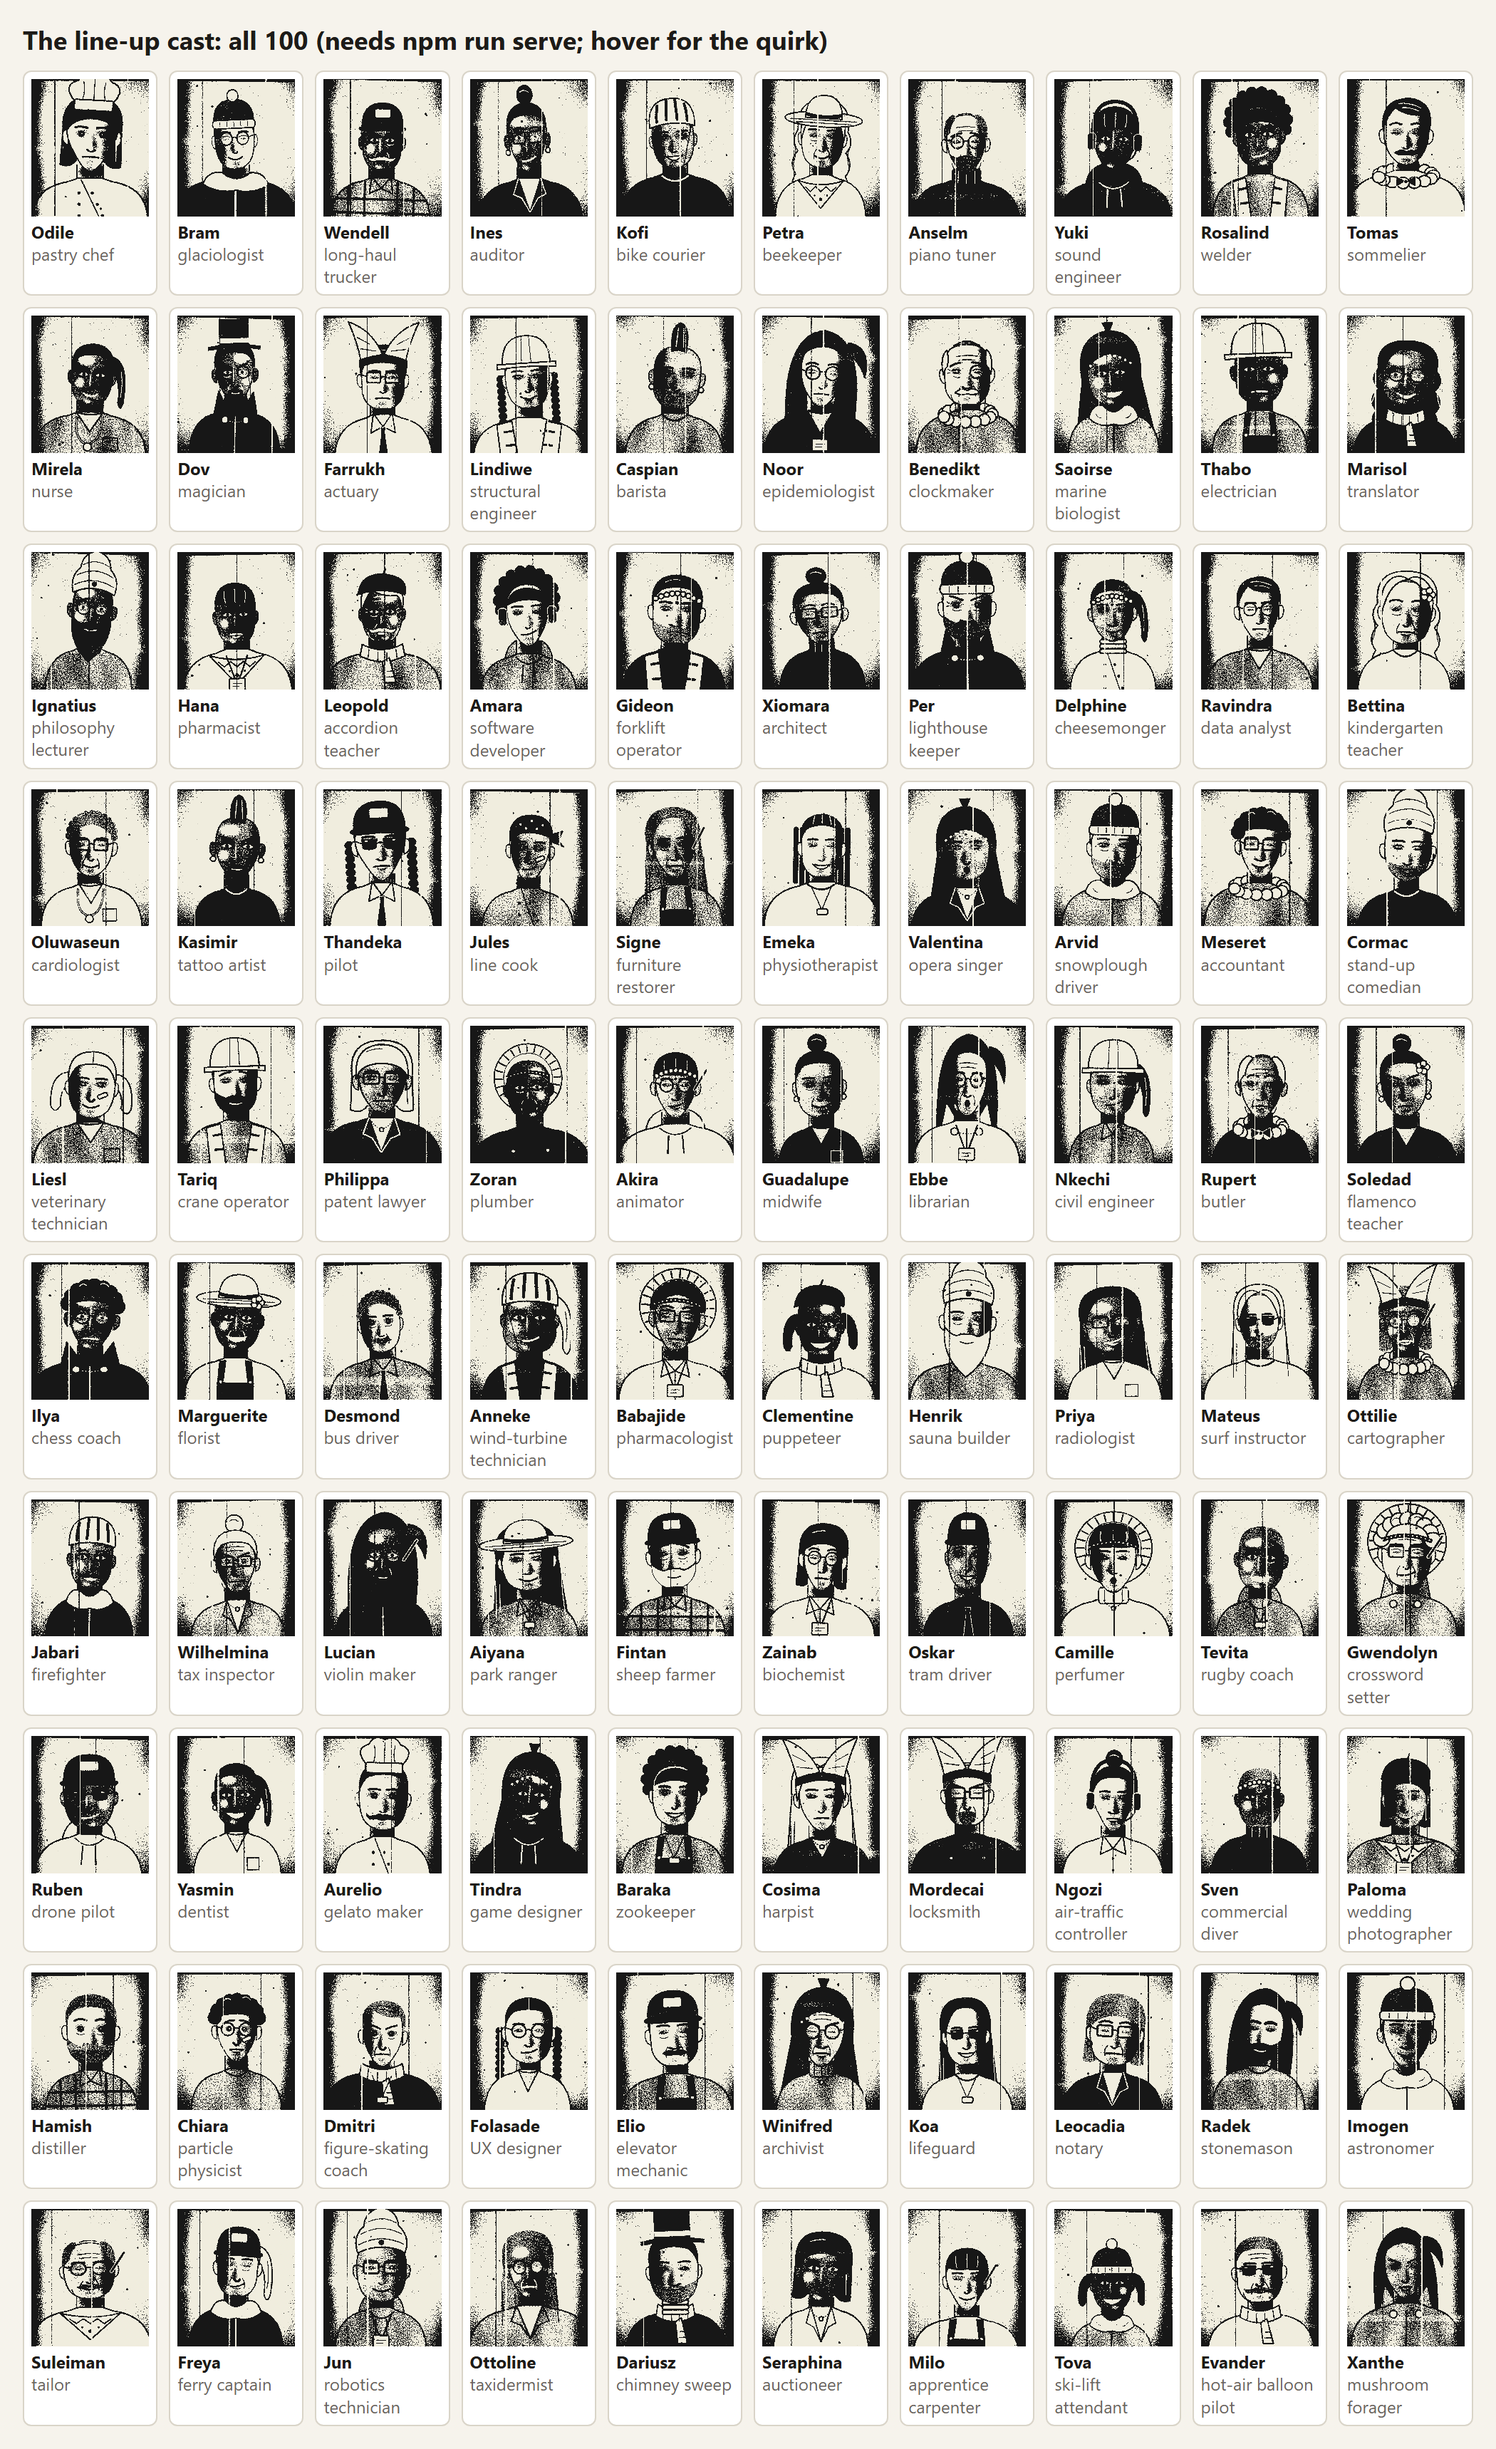
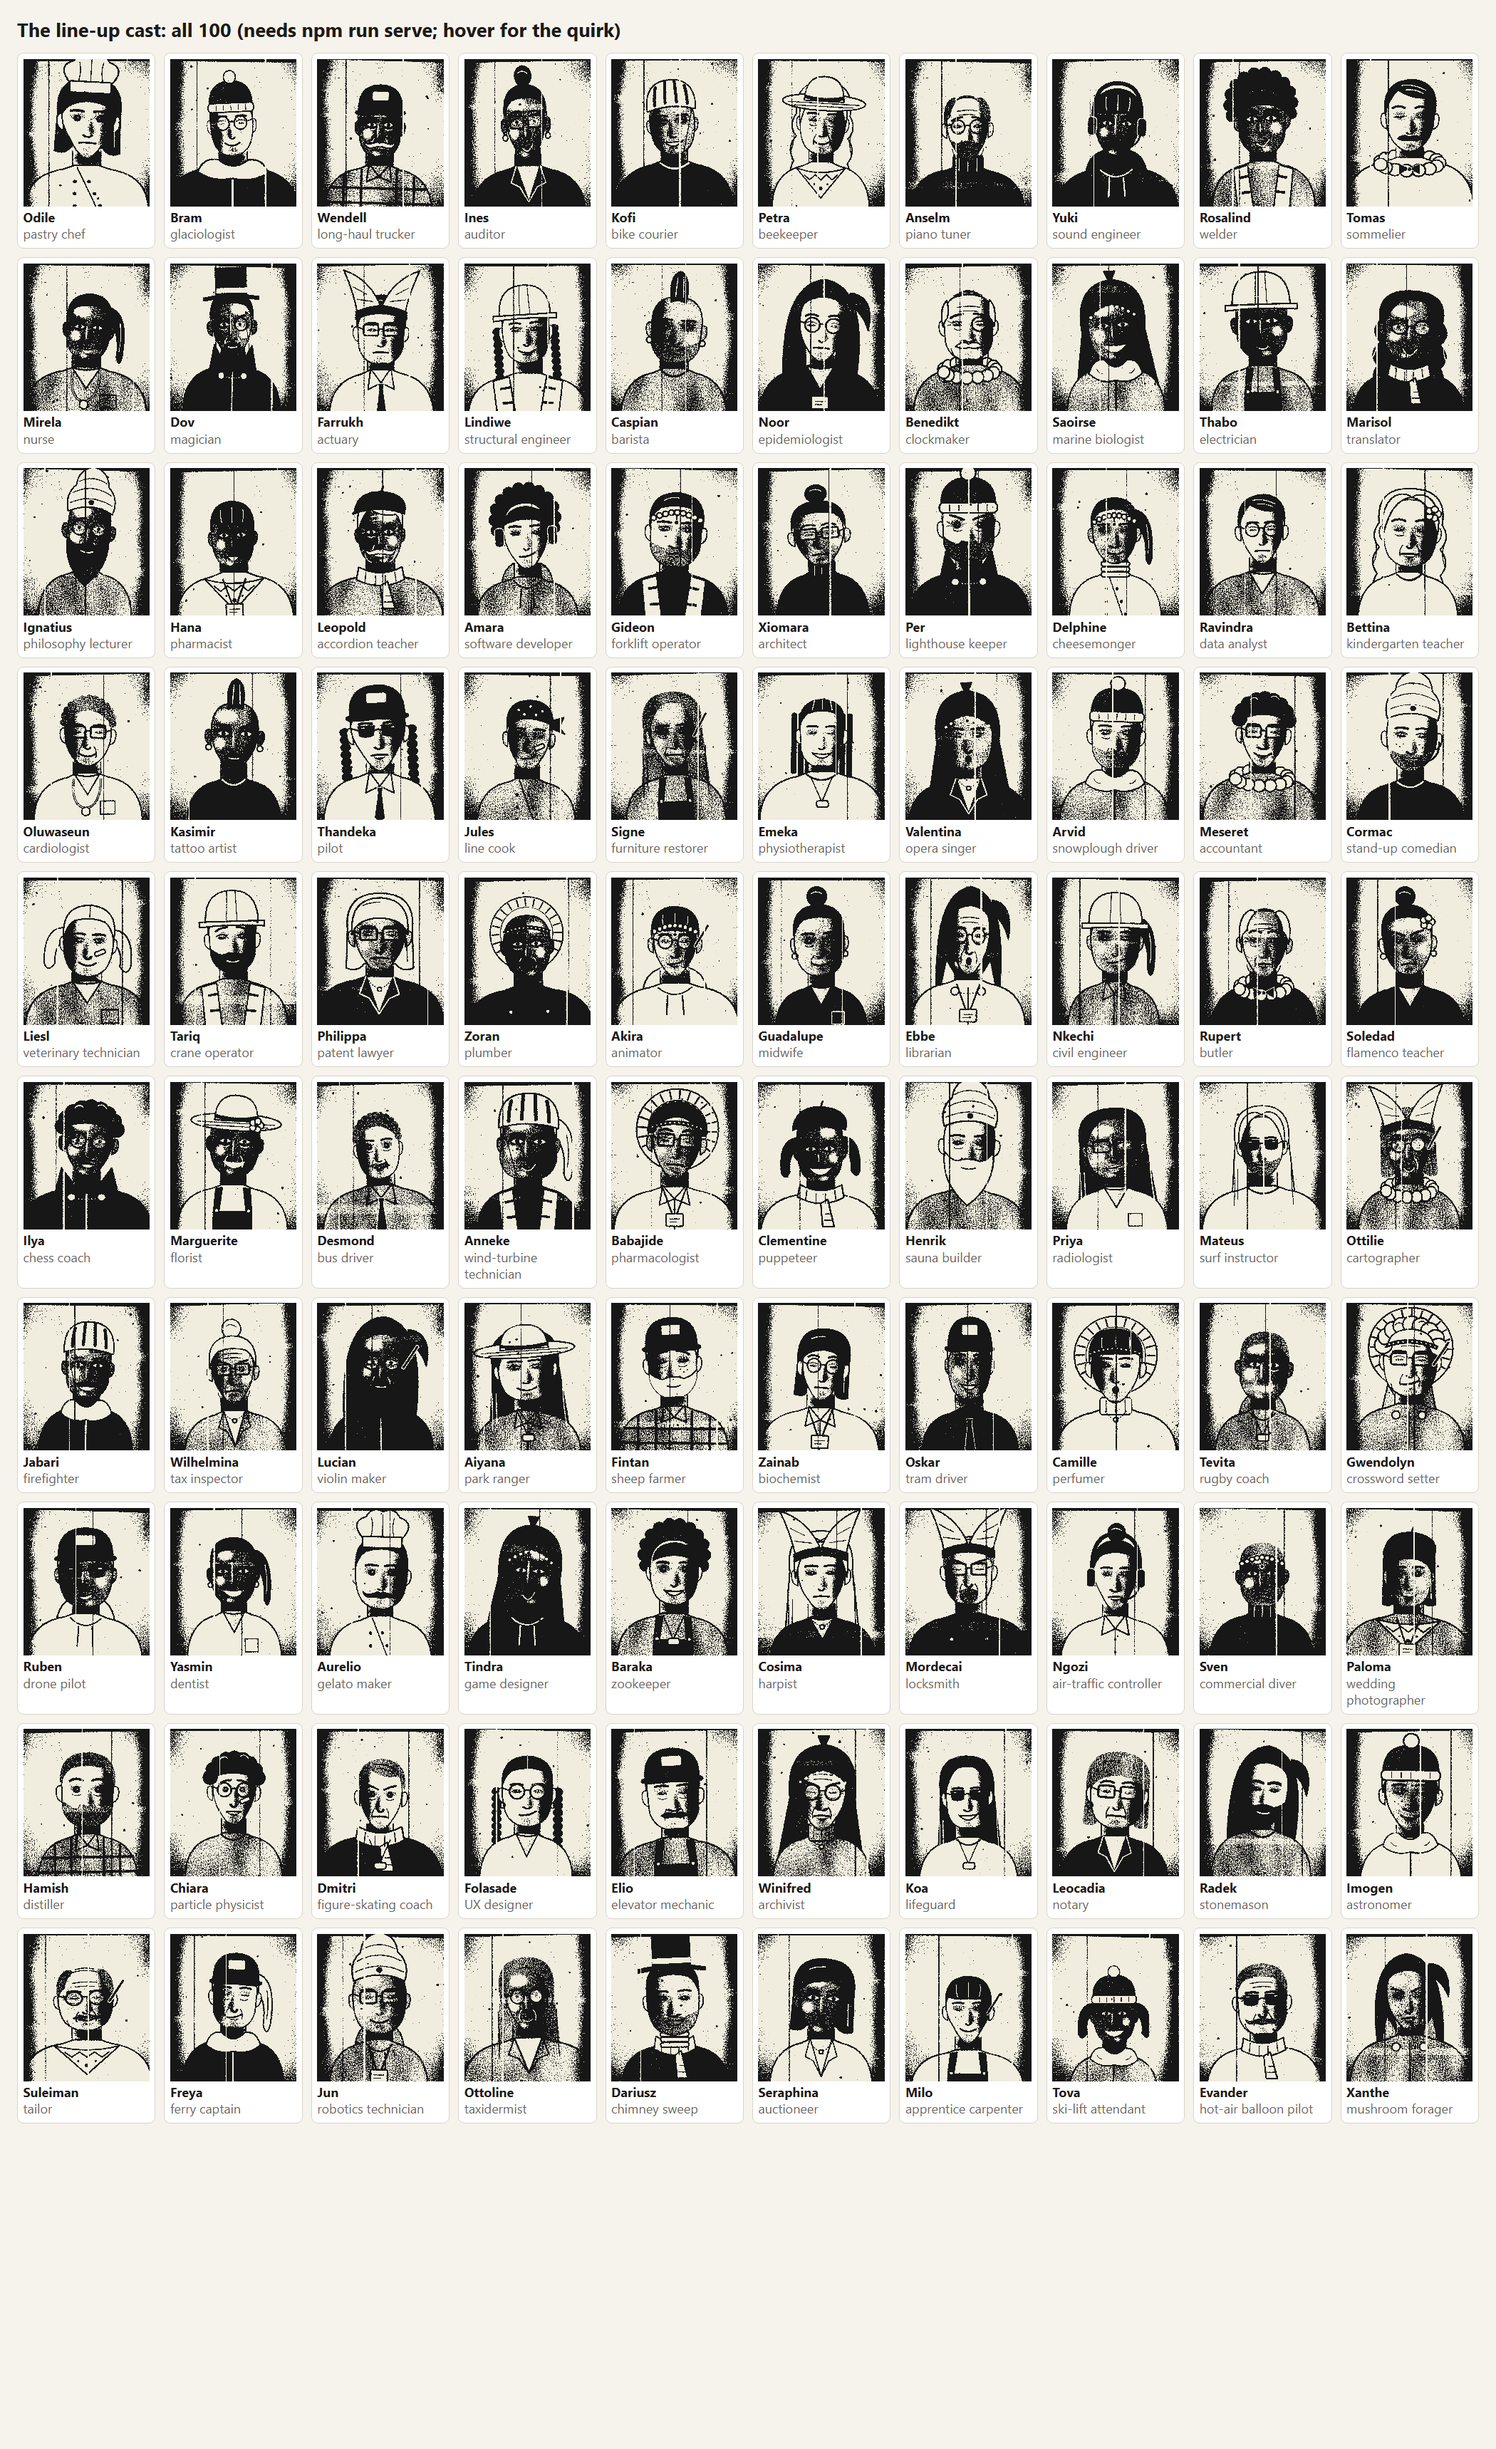
Draw the light on a dark-skinned mouth instead of a white line
A glint on the lower lip, its thin rim, or now and then both lips in
stippled grey, dealt between the people. The cast sheet is retaken and
art/lip-samples.png shows the 19 mouths that changed.

diff --git a/src/portrait.js b/src/portrait.js
@@ -253,6 +253,33 @@ const MOUTHS = {
   frown: `<path d="M53 79 Q60 75.5 67 79" stroke="${K}" stroke-width="1.6" fill="none" stroke-linecap="round"/>`,
   o: `<ellipse cx="60" cy="78" rx="3" ry="3.4" fill="${K}"/>`,
 };
+// The line of each mouth that is a line: start, control point, end.
+const LIP_LINES = {
+  flat: [53, 77.5, 60, 76.5, 67, 77.5],
+  smile: [52, 76, 60, 81.5, 68, 76],
+  smirk: [53, 78, 61, 79, 68, 74.5],
+  frown: [53, 79, 60, 75.5, 67, 79],
+};
+
+// A mouth on dark skin, where a black line would not show and a white one looks cut out.
+// The light is drawn instead, one of three ways:
+//   glint    the light on the lower lip
+//   rim      the edge of the lower lip, thinly
+//   stipple  both lips in a grey the copier cannot make up its mind about
+// A grin is its teeth and an "o" is a hole, so those two are left as they are.
+const DARK_LIPS = ['glint', 'rim', 'glint', 'rim', 'stipple'];
+function darkMouth(kind, full, how) {
+  const at = LIP_LINES[kind];
+  if (!at) return MOUTHS[kind].replaceAll(`stroke="${K}"`, `stroke="${W}"`);
+  const [x0, y0, cx, cy, x1, y1] = at;
+  const part = `<path d="M${x0} ${y0} Q${cx} ${cy} ${x1} ${y1}" stroke="${K}" stroke-width="1.300" fill="none" stroke-linecap="round"/>`;
+  // A lip is the space between the mouth's line and the same line pulled up or down.
+  const lip = (pull, inset = 0) => `M${x0 + inset} ${y0} Q${cx} ${cy} ${x1 - inset} ${y1} Q${cx} ${cy + pull} ${x0 + inset} ${y0}Z`;
+  const deep = full ? 9 : 6.5;
+  if (how === 'stipple') return `<path d="${lip(deep)}" fill="#a4a4a4"/><path d="${lip(full ? -5 : -3.5)}" fill="#a4a4a4"/>${part}`;
+  if (how === 'rim') return `${part}<path d="M${x0 + 2} ${y0 + 1.2} Q${cx} ${cy + deep} ${x1 - 2} ${y1 + 1.2}" stroke="${W}" stroke-width=".800" fill="none" stroke-linecap="round"/>`;
+  return `<path d="${lip(deep, 1.5)}" fill="${W}"/>${part}`;
+}
 
 function extra(kind) {
   switch (kind) {
@@ -325,7 +352,7 @@ export function portrait(look = {}, seed = 1) {
   const [nw, nh] = NOSES[look.nose] ?? NOSES.mid;
   const nose = `<g transform="translate(60 71) scale(${nw} ${nh}) translate(-60 -71)"><path d="M55 70.500 Q57 68.800 58.500 70.800 Q60 72 61.500 70.800 Q63 68.800 65 70.500 Q62.500 73.200 60 72.600 Q57.500 73.200 55 70.500Z" fill="${K}"/>${dark ? `<path d="M58.500 56 L58 67" stroke="${W}" stroke-width="2" stroke-linecap="round" filter="url(#pt-softer)"/>` : ''}</g>`;
   const fullLips = look.lips === 'full' && ['flat', 'smile', 'smirk', undefined].includes(look.mouth)
-    ? `<path d="M54 78.500 Q60 84.500 66 78.500 Q60 80.500 54 78.500Z" fill="${dark ? W : '#5a5a5a'}"/>` : '';
+    ? `<path d="M54 78.500 Q60 84.500 66 78.500 Q60 80.500 54 78.500Z" fill="#5a5a5a"/>` : '';
   const age = look.age ?? 1;
   const wear = (d, w = 0.8) => `<path d="${d}" stroke="${mark}" stroke-width="${w}" fill="none" stroke-linecap="round"/>`;
   const lines = (age >= 2 ? both(wear('M54 69.500 Q50.500 74 52 79.500') + wear('M47 60 Q50.500 62.300 54.500 60.200', 0.7)) : '')
@@ -350,7 +377,7 @@ export function portrait(look = {}, seed = 1) {
     <path d="${head}" fill="none" stroke="${K}" stroke-width="1.100"/>
     ${both(`<g transform="translate(${-gap} 0)"><path d="${brow}" stroke="${K}" stroke-width="${look.brows === 'thick' ? 3 : 2}" fill="none" stroke-linecap="round"/></g>`)}
     ${eyes}${nose}${lines}
-    ${dark ? (MOUTHS[look.mouth] ?? MOUTHS.flat).replaceAll(`stroke="${K}"`, `stroke="${W}"`) : MOUTHS[look.mouth] ?? MOUTHS.flat}${fullLips}`;
+    ${dark ? darkMouth(MOUTHS[look.mouth] ? look.mouth : 'flat', look.lips === 'full', DARK_LIPS[(seed * 7 + 3) % DARK_LIPS.length]) : (MOUTHS[look.mouth] ?? MOUTHS.flat) + fullLips}`;
 
   const neckW = look.neck ?? 22;
   const neck = `<clipPath id="${id}n"><rect x="${60 - neckW / 2}" y="78" width="${neckW}" height="30"/></clipPath>

diff --git a/README.md b/README.md
@@ -176,6 +176,11 @@ this mode only.
   shadows), eyes, nose, lips, hair style and texture, beard, glasses, hat, clothes, one
   or two extras. The cast list says hair, hat, clothes and extras; the rest is drawn
   from the name, so it is stable between builds.
+- **A mouth on dark skin is its light, not a white line.** The user on 2026-11-20: thin
+  white lines for lips do not look good. Of four tries they picked three, dealt between
+  the people: a glint on the lower lip, the thin rim of it, and now and then both lips
+  in a stippled grey. Grins and "o" mouths are as they were. `art/lip-samples.png` has
+  the 19 mouths that changed, before and after.
 - **Age shows**, in lines and grey hair, following the age in the description. It is the
   only thing in a picture that follows a scoring attribute.
 - **Stored as the game reads them** (`canonical`), so 13 of the 100 lost something that
@@ -573,7 +578,7 @@ data/bands.json           IRCC's pool distribution used as weights
 data/answers.json         the hidden people, built by tools/make-answers.mjs
 data/ircc/                IRCC statistics as downloaded; nothing reads them
 data/lineup.json          the line-up cast, built by tools/make-lineup.mjs from tools/lineup-cast.mjs
-art/                      style samples and a sheet of the whole cast
+art/                      style samples, a sheet of the whole cast, and the mouths on dark skin before and after
 tools/                    make-answers, simulate, simulate-score, simulate-tuples, serve, ircc-oracle
 test/                     node --test
 ```
